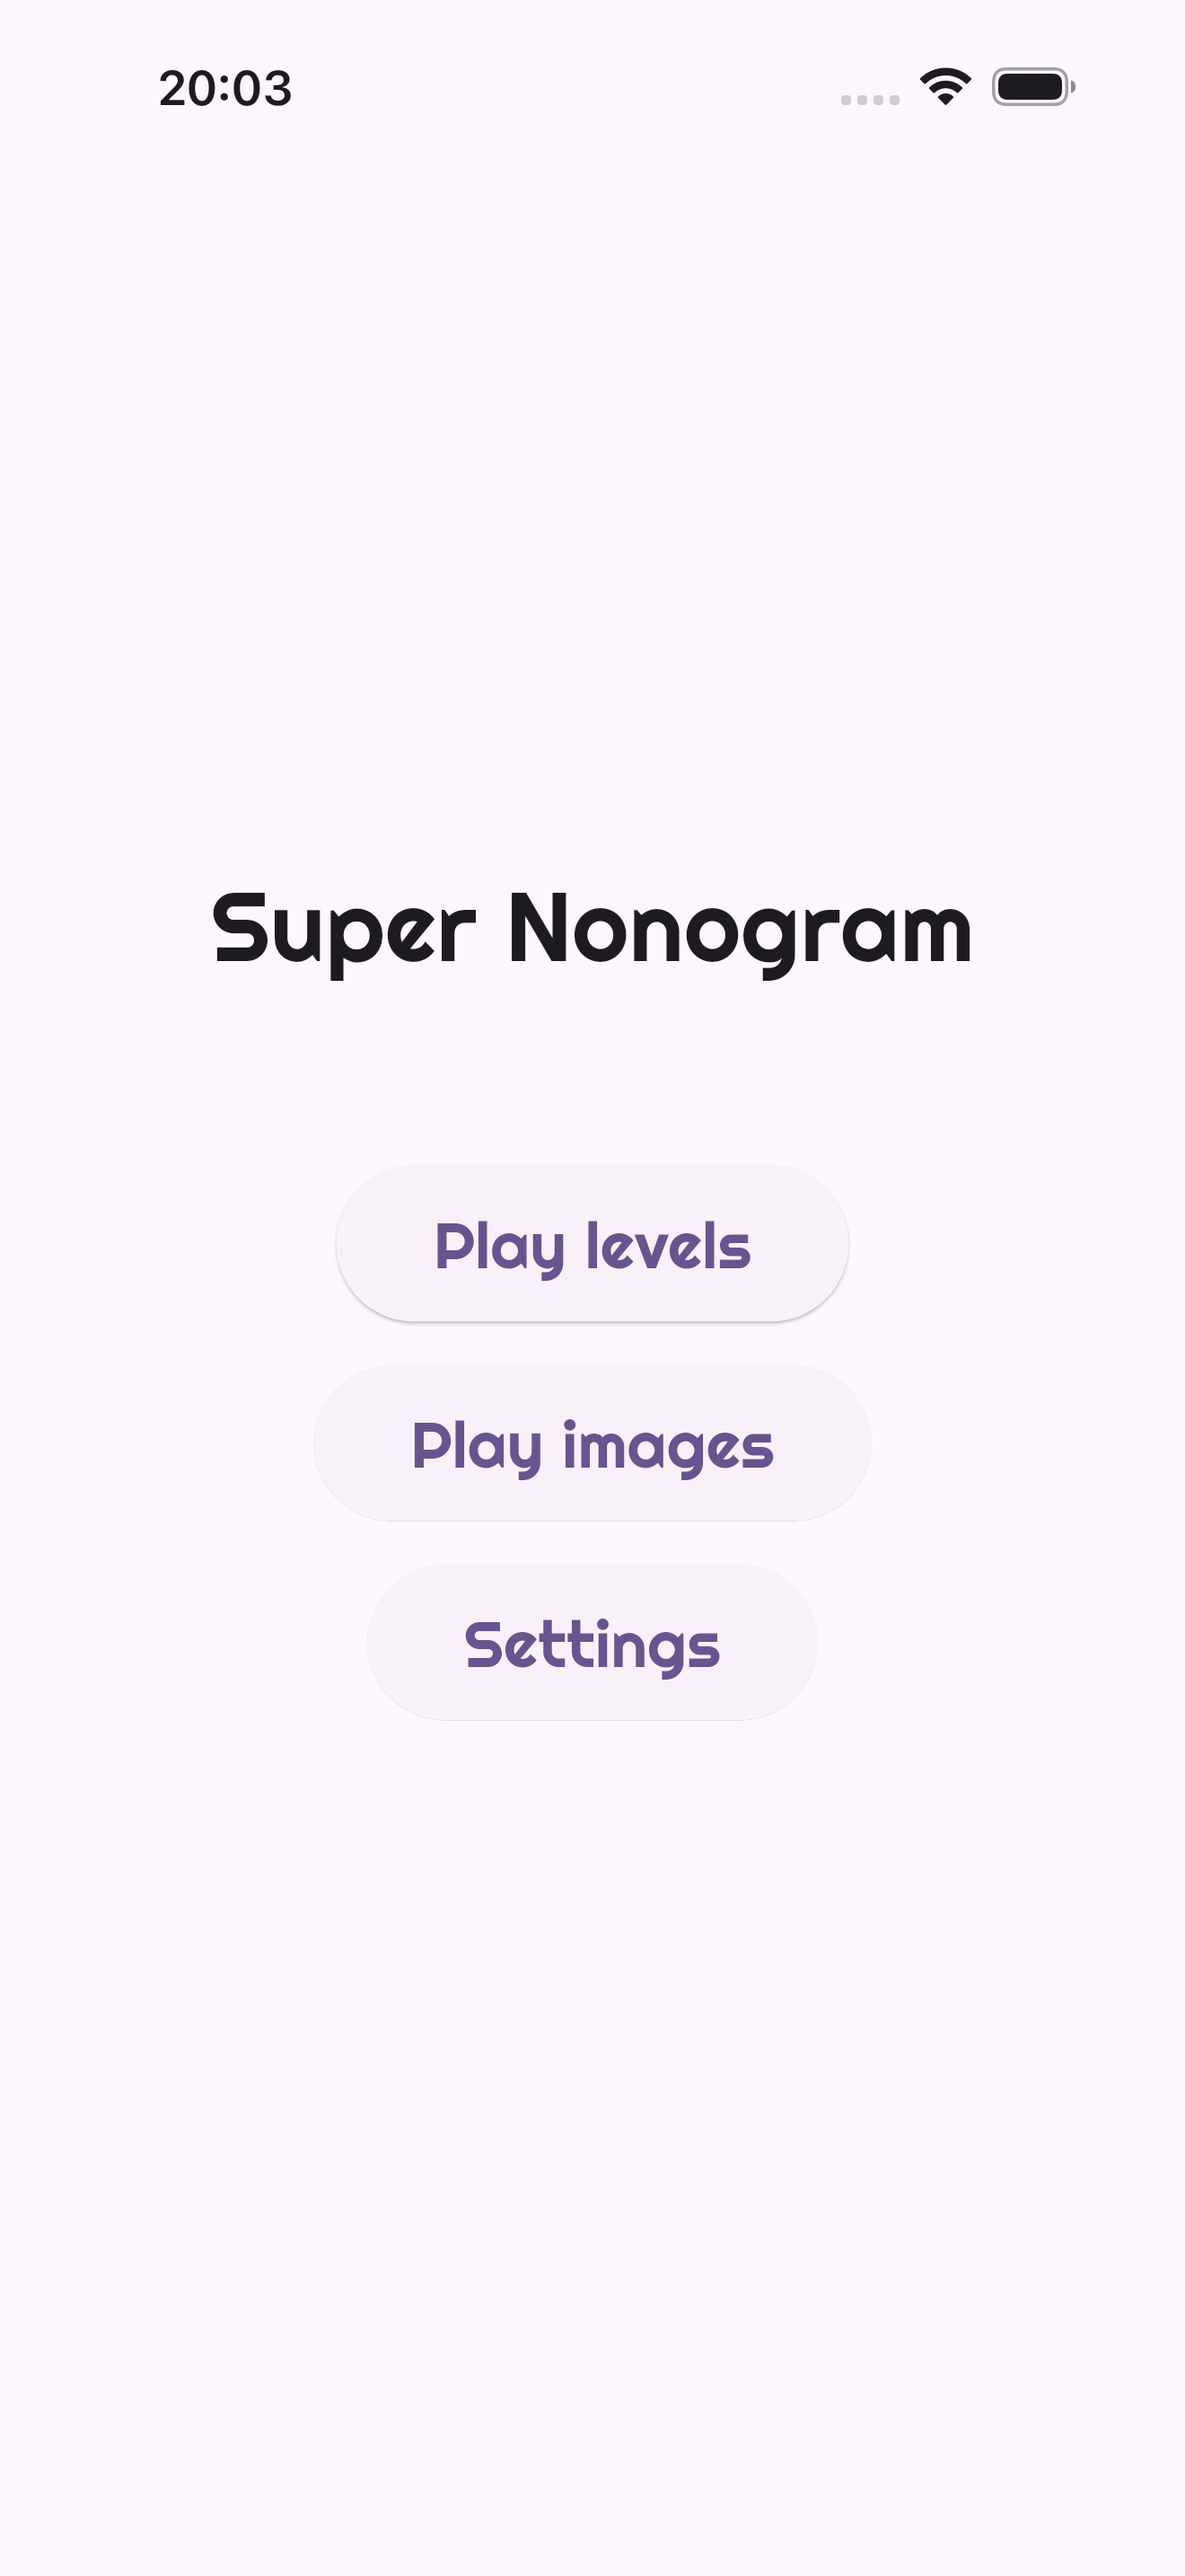
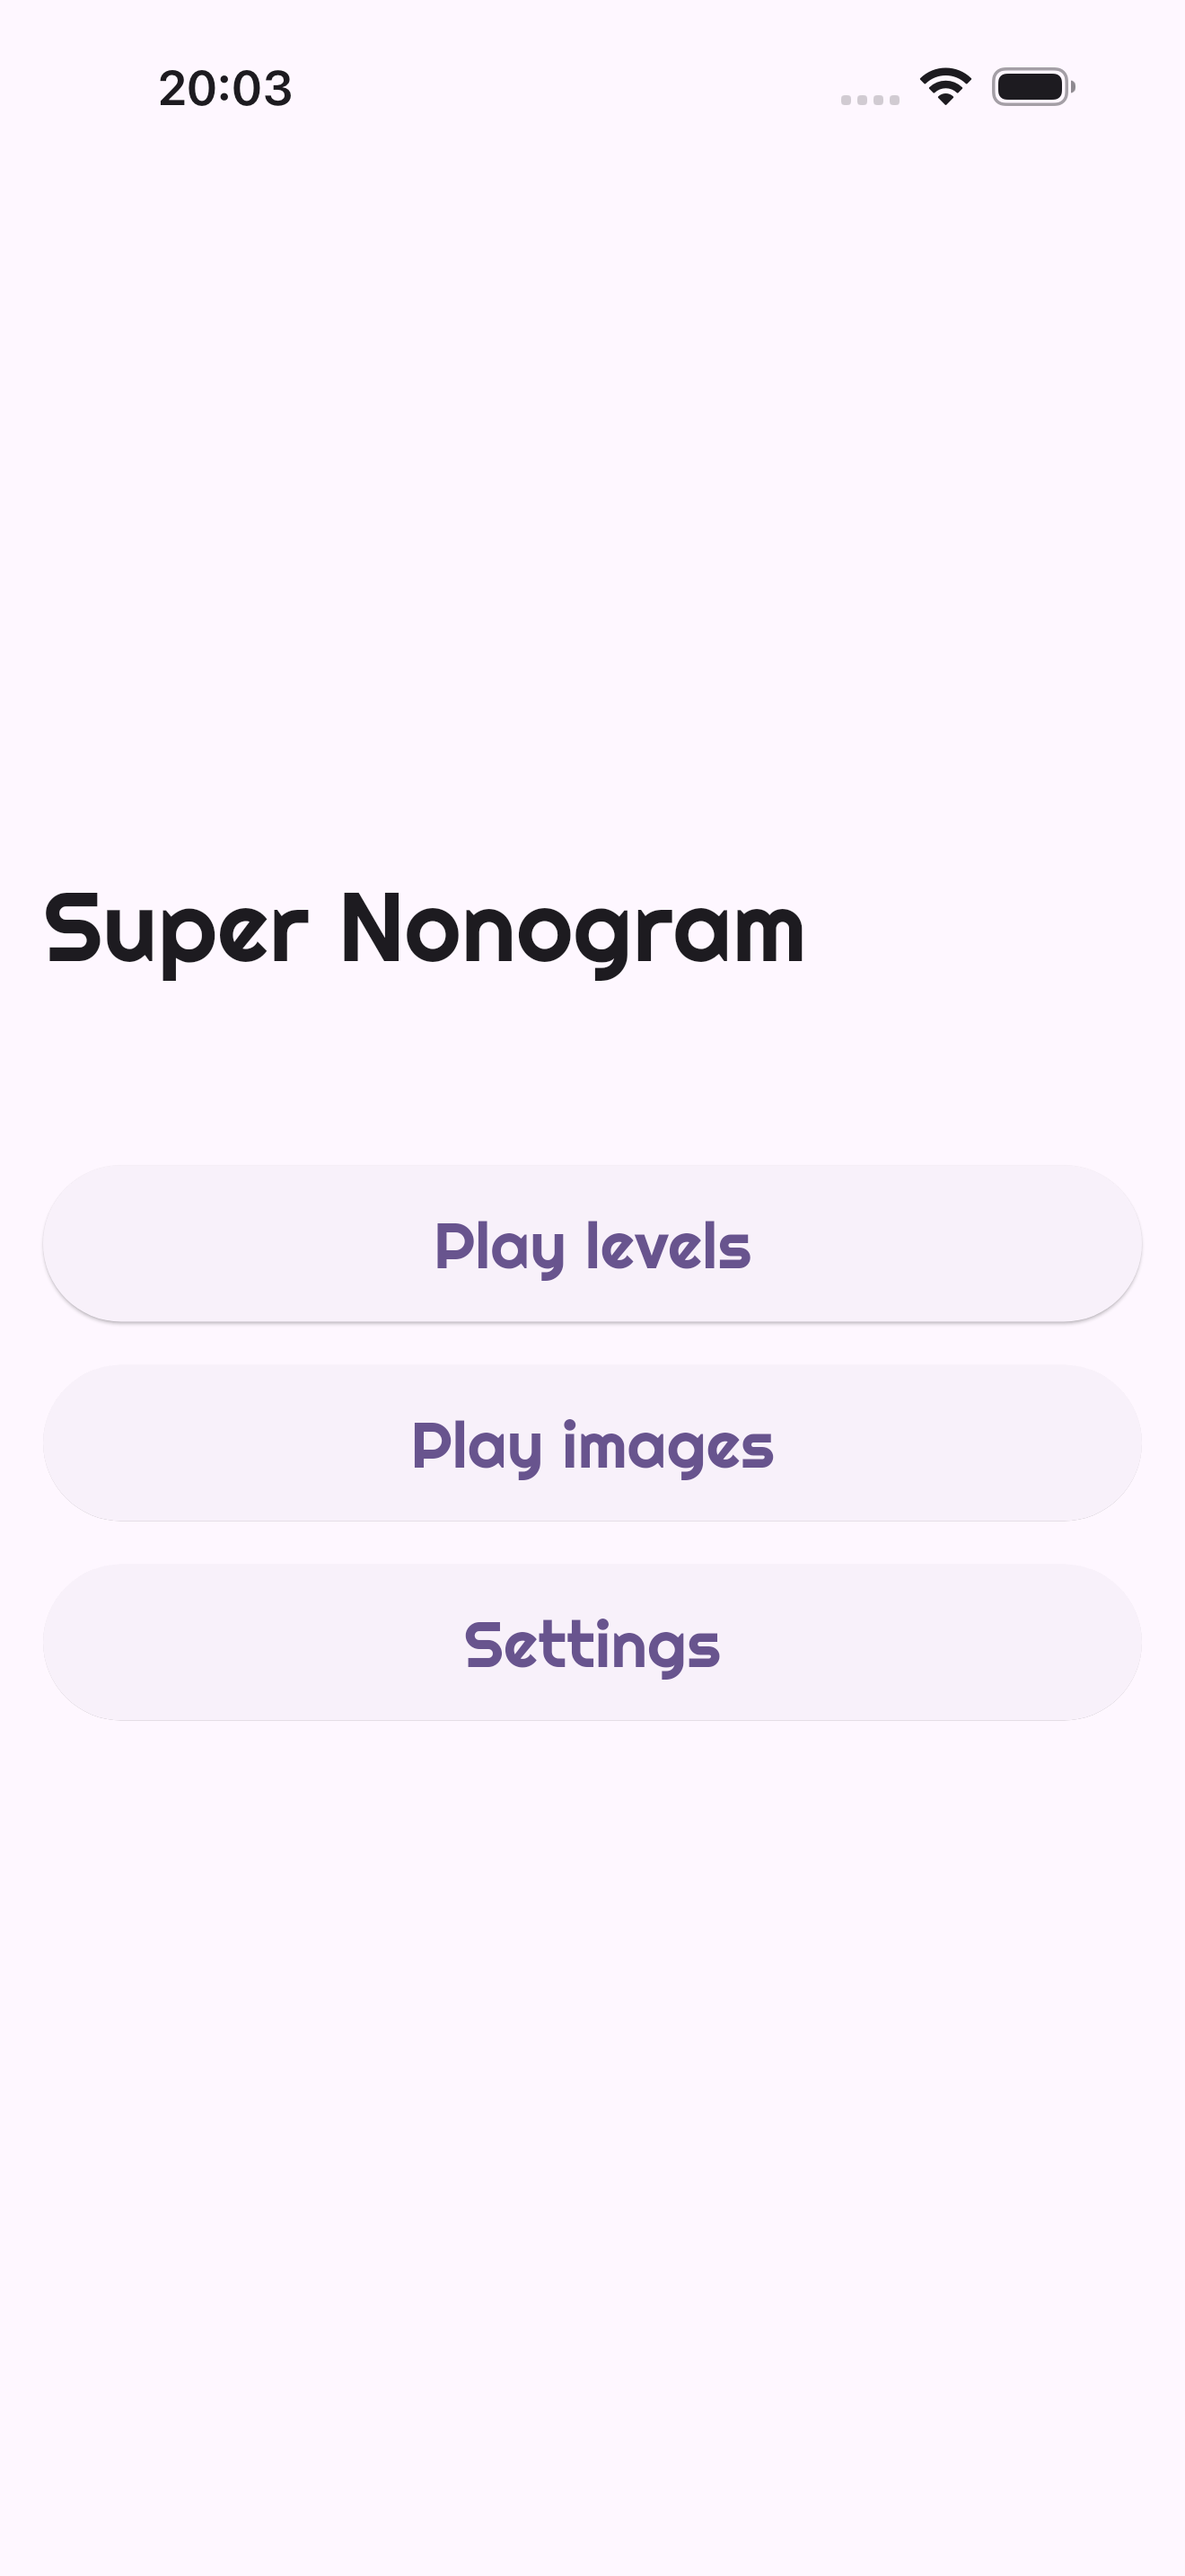
tweak: limit home screen width to 600

Changed region(s): [[0.0311, 0.3414, 0.8386, 0.4034]]

diff --git a/lib/pages/title_page.dart b/lib/pages/title_page.dart
@@ -1,3 +1,5 @@
+import 'dart:math';
+
 import 'package:animations/animations.dart';
 import 'package:flutter/material.dart';
 import 'package:games_services/games_services.dart';
@@ -37,9 +39,14 @@ class TitlePage extends StatelessWidget {
     return Scaffold(
       body: Center(
         child: SingleChildScrollView(
-          padding: const EdgeInsets.symmetric(vertical: 32),
+          padding: EdgeInsets.symmetric(
+            vertical: 32,
+            horizontal: max((mediaQuery.size.width - 600) / 2, 16),
+          ),
           child: Column(
             mainAxisSize: MainAxisSize.min,
+            mainAxisAlignment: MainAxisAlignment.center,
+            crossAxisAlignment: CrossAxisAlignment.stretch,
             children: [
               Text(
                 t.title.appName,
